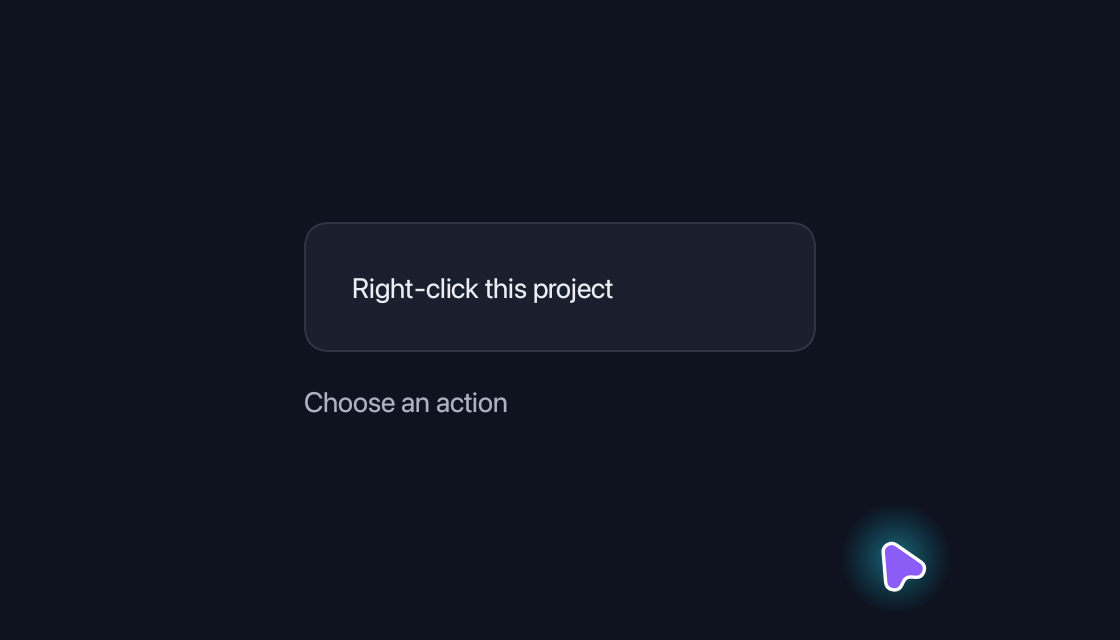
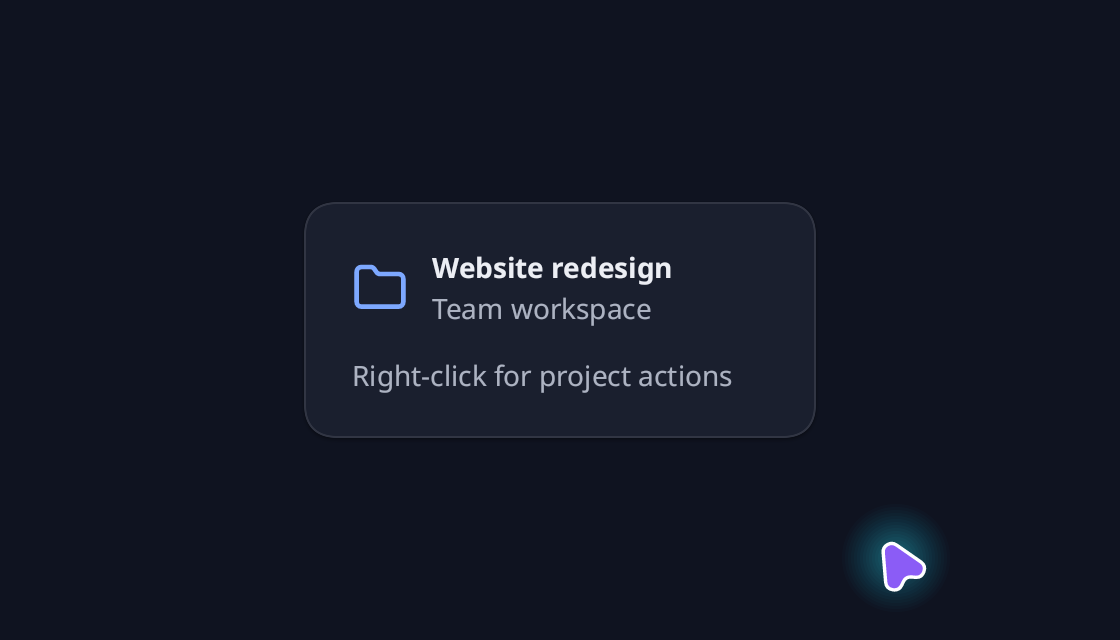
Add project actions to context menu demo
git-bug: 5d5fc093edeffe94e65d3a1a9d8b87b62cddb41749cdde9ed336de7c7d990ad1

diff --git a/examples/blinc_component_demos/src/gallery/navigation.rs b/examples/blinc_component_demos/src/gallery/navigation.rs
@@ -83,33 +83,78 @@ pub fn dropdown_menu_demo(values: &DemoState, _: (f32, f32)) -> Div {
 
 pub fn context_menu_demo(values: &DemoState, _: (f32, f32)) -> Div {
     let choice = values.choice;
+    let favorite = values.confirmed;
     div()
         .class("demo-stack")
+        .id("demo-action")
+        .on_context_menu(move |event| {
+            use blinc_icons::{icons, to_svg};
+            let (label, icon) = if favorite.get() {
+                ("Remove from favorites", icons::STAR_OFF)
+            } else {
+                ("Add to favorites", icons::STAR)
+            };
+            cn::context_menu()
+                .at(event.mouse_x, event.mouse_y)
+                .item_with_icon("Duplicate", to_svg(icons::COPY, 16.0), move || {
+                    choice.set("duplicate".into())
+                })
+                .item_with_icon("Rename", to_svg(icons::PENCIL, 16.0), move || {
+                    choice.set("rename".into())
+                })
+                .item_with_icon("Share", to_svg(icons::SHARE_2, 16.0), move || {
+                    choice.set("share".into())
+                })
+                .separator()
+                .item_with_icon(label, to_svg(icon, 16.0), move || {
+                    let next = !favorite.get();
+                    favorite.set(next);
+                    choice.set(if next { "favorite" } else { "unfavorite" }.into());
+                })
+                .show();
+        })
         .child(
-            div()
-                .class("demo-context-target")
-                .id("demo-action")
-                .child(text("Right-click this project"))
-                .on_context_menu(move |event| {
-                    cn::context_menu()
-                        .at(event.mouse_x, event.mouse_y)
-                        .item("Duplicate", move || choice.set("Duplicated".into()))
-                        .item("Share", move || choice.set("Share selected".into()))
-                        .separator()
-                        .item("Rename", move || choice.set("Rename selected".into()))
-                        .show();
-                }),
-        )
-        .child(
-            bound_text(computed(move |g| {
-                let choice = g.get(choice).unwrap_or_default();
-                if choice == "rust" {
-                    "Choose an action".into()
-                } else {
-                    choice
-                }
-            }))
-            .class("demo-caption"),
+            cn::card()
+                .w_full()
+                .child(
+                    div()
+                        .class("demo-profile")
+                        .child(
+                            svg(blinc_icons::to_svg(blinc_icons::icons::FOLDER, 28.0))
+                                .size(28.0, 28.0)
+                                .class("demo-icons"),
+                        )
+                        .child(
+                            div()
+                                .class("demo-profile-copy")
+                                .child(text("Website redesign").class("demo-label"))
+                                .child(
+                                    bound_text(computed(move |g| {
+                                        if g.get(favorite).unwrap_or(false) {
+                                            "Team workspace · Favorite"
+                                        } else {
+                                            "Team workspace"
+                                        }
+                                        .into()
+                                    }))
+                                    .class("demo-caption"),
+                                ),
+                        ),
+                )
+                .child(
+                    bound_text(computed(move |g| {
+                        match g.get(choice).as_deref() {
+                            Some("duplicate") => "Duplicate selected",
+                            Some("rename") => "Rename selected",
+                            Some("share") => "Share selected",
+                            Some("favorite") => "Added to favorites",
+                            Some("unfavorite") => "Removed from favorites",
+                            _ => "Right-click for project actions",
+                        }
+                        .into()
+                    }))
+                    .class("demo-caption"),
+                ),
         )
 }
 

diff --git a/docs/book/src/cn/navigation.md b/docs/book/src/cn/navigation.md
@@ -107,6 +107,15 @@ key opens at the focused target; right-click opens at the pointer. The menu shar
 the dropdown's arrow, activation and dismissal keys. The returned overlay
 handle can close the menu programmatically.
 
+Add SVG icons with `item_with_icon`; the menu aligns each icon with its label:
+
+```rust
+context_menu().at(x, y)
+    .item_with_icon("Duplicate", blinc_icons::to_svg(blinc_icons::icons::COPY, 16.0), || {})
+    .item_with_icon("Share", blinc_icons::to_svg(blinc_icons::icons::SHARE_2, 16.0), || {})
+    .show();
+```
+
 ## Menubar
 
 A menubar owns several menus. Each `.menu(label, configure)` receives a
